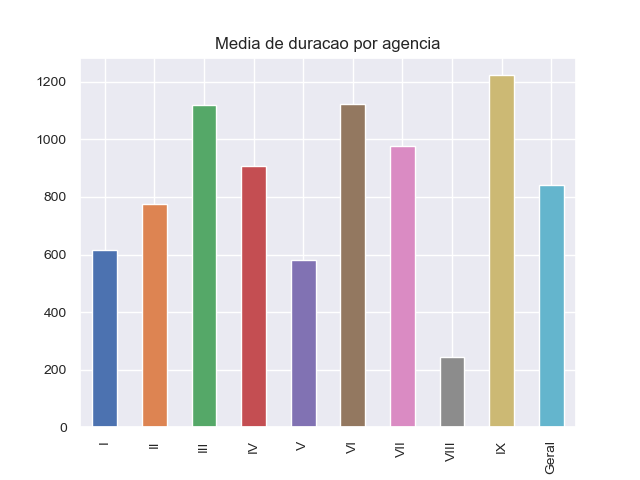
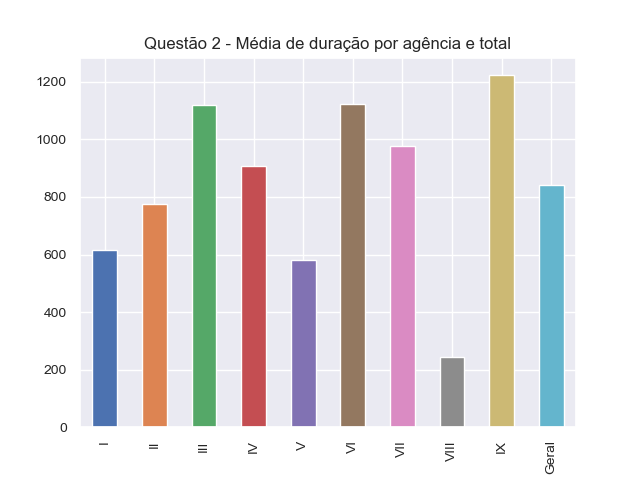
Atualizacoes 2

Changed region(s): [[0.2188, 0.0625, 0.8125, 0.125]]

diff --git a/regulacaoemnumeros/Questao1.py b/regulacaoemnumeros/Questao1.py
@@ -8,11 +8,11 @@ df = pd.read_excel('base_de_dados.xlsx') # Importar base de dados para dataframe
 df = df.dropna() # Descartar entradas com dados NaN
 df['AgenciaInt'] = df['Agencia'].apply(lambda x: roman.fromRoman(x)) # Transformar numerais romanos em inteiros
 df['Exercicio_Apurado'] = df['Exercicio_Apurado'].apply(lambda x: int(x))
-print(df.columns.values)
 
 sns.set()
 fig, axes = plt.subplots(nrows=3, ncols=3 , figsize=(10,10))
 plt.subplots_adjust(hspace=0.7)
+fig.suptitle('Questão 1 - Relação entre quantidade de processos e:', weight='bold')
 
 
 # ===============================================================================================================
@@ -23,7 +23,7 @@ s_1a = df['AgenciaInt'].value_counts().sort_index() # Criar Serie com total de p
 s_1a = pd.Series(s_1a.index.values, index=s_1a) # Inverter indice com valores
 s_1a = s_1a.apply(roman.toRoman) # Aplicar funcao conversora
 s_1a = pd.Series(s_1a.index.values, index=s_1a) # Reinverter para manter numerais como indice
-s_1a.plot(kind='bar', ax=axes[0,0], title='1a. Processos por agencia', fontsize=10)
+s_1a.plot(kind='bar', ax=axes[0,0], title='a. Agência', fontsize=10)
 
 
 # ===============================================================================================================
@@ -31,7 +31,7 @@ s_1a.plot(kind='bar', ax=axes[0,0], title='1a. Processos por agencia', fontsize=
 # ===============================================================================================================
 
 s_1b = df['Exercicio_Apurado'].value_counts().sort_index() # Criar Serie com total de processos
-s_1b.plot(kind='bar', ax=axes[0,1], title='1b. Processos por ano', fontsize=10)
+s_1b.plot(kind='bar', ax=axes[0,1], title='b. Ano', fontsize=10)
 
 
 # ===============================================================================================================
@@ -42,16 +42,16 @@ agencias = list(s_1a.index)
 anos = list(s_1b.index)
 d = {}
 for x in agencias:
-    d[x] = []
+    d[x] = [] # Uma chave para cada agencia contendo uma lista de totais de processo por ano
     for y in anos:
         df_1c = df[
             (df['Exercicio_Apurado'] == y) &
             (df['Agencia'] == x)]
-        d[x].append(df_1c.shape[0])
+        d[x].append(df_1c.shape[0]) #
 d = pd.DataFrame(d)
 d.index = anos
 large_left_ax = plt.subplot2grid((3,3), (1,0), colspan=2, rowspan=2)
-d.plot(ax=large_left_ax, title='1c. Processos por agencia por ano', fontsize=10)
+d.plot(ax=large_left_ax, title='c. Agência / Ano', fontsize=10)
 
 
 # ===============================================================================================================
@@ -59,7 +59,7 @@ d.plot(ax=large_left_ax, title='1c. Processos por agencia por ano', fontsize=10)
 # ===============================================================================================================
 
 s_1d = df['Relator'].value_counts().sort_index() # Criar Serie com total de processos
-s_1d.plot(kind='bar', ax=axes[0,2], title='1d. Processos por relator', fontsize=10)
+s_1d.plot(kind='bar', ax=axes[0,2], title='d. Relator', fontsize=10)
 
 
 # ===============================================================================================================
@@ -67,7 +67,10 @@ s_1d.plot(kind='bar', ax=axes[0,2], title='1d. Processos por relator', fontsize=
 # ===============================================================================================================
 
 s_1e = df['Quantidade_Relatores'].value_counts().sort_index() # Criar Serie com total de processos
-s_1e.plot(kind='bar', ax=axes[1,2], title='1e. Processos por qtd. de relatores', fontsize=10)
+s_1e = pd.Series(s_1e.index.values, index=s_1e) # Inverter indice com valores
+s_1e = s_1e.apply(int) # Aplicar funcao conversora
+s_1e = pd.Series(s_1e.index.values, index=s_1e) # Reinverter para manter numerais como indice
+s_1e.plot(kind='bar', ax=axes[1,2], title='e. Quantidade de relatores', fontsize=10)
 
 
 # ===============================================================================================================
@@ -75,9 +78,15 @@ s_1e.plot(kind='bar', ax=axes[1,2], title='1e. Processos por qtd. de relatores',
 # ===============================================================================================================
 
 s_1d = df['Unidade_Tecnica_Por_Agir'].value_counts().sort_index() # Criar Serie com total de processos
-s_1d.plot(kind='bar', ax=axes[2,2], title='1f. Processos por unidade tecnica', fontsize=10)
+s_1d.plot(kind='bar', ax=axes[2,2], title='f. Unidade técnica', fontsize=10)
 
+yint = []
+locs, labels = plt.yticks()
+for each in locs:
+    yint.append(int(each))
+plt.yticks(yint)
 
-
+xint = [x for x in range(1997, 2016, 2)]
+plt.xticks([value for idx, value in enumerate(anos) if idx%2 == 0])
 
 plt.show()

diff --git a/regulacaoemnumeros/Questao5.py b/regulacaoemnumeros/Questao5.py
@@ -11,6 +11,7 @@ df['AgenciaInt'] = df['Agencia'].apply(lambda x: roman.fromRoman(x)) # Transform
 sns.set()
 fig, axes = plt.subplots(nrows=3, ncols=2, figsize=(10,10))
 plt.subplots_adjust(hspace=0.7)
+fig.suptitle('Questão 5 - Relação entre quantidade de deliberações e:', weight='bold')
 
 
 # ===============================================================================================================
@@ -21,7 +22,7 @@ result_5a = df.groupby('AgenciaInt')['deliberacoes_quantidade'].sum()
 result_5a = pd.Series(result_5a.index.values, index=result_5a) # Inverter indice com valores
 result_5a = result_5a.apply(roman.toRoman) # Aplicar funcao conversora
 result_5a = pd.Series(result_5a.index.values, index=result_5a) # Reinverter para manter numerais como indice
-result_5a.plot.bar(ax=axes[0,0], title='5a. Deliberacoes por agencia', fontsize=10)
+result_5a.plot.bar(ax=axes[0,0], title='a. Agência', fontsize=10)
 
 
 # ===============================================================================================================
@@ -32,7 +33,7 @@ result_5b = df.groupby('Exercicio_Apurado')['deliberacoes_quantidade'].sum()
 result_5b = pd.Series(result_5b.index.values, index=result_5b) # Inverter indice com valores
 result_5b = result_5b.apply(int) # Aplicar funcao conversora
 result_5b = pd.Series(result_5b.index.values, index=result_5b) # Reinverter para manter numerais como indice
-title_5b = '5b. Deliberacoes por ano (Total: {})'.format(result_5b.sum())
+title_5b = 'b. Ano (Total: {})'.format(result_5b.sum())
 result_5b.plot.bar(ax=axes[0,1], title=title_5b, fontsize=10)
 
 
@@ -42,8 +43,8 @@ result_5b.plot.bar(ax=axes[0,1], title=title_5b, fontsize=10)
 
 result_5c = df.groupby('Relator')['deliberacoes_quantidade'].sum()
 result_5c.index.name = ''
-large_left_ax = plt.subplot2grid((3,2), (1,0), colspan=2, rowspan=1)
-result_5c.plot.bar(ax=large_left_ax, title='5c. Deliberacoes por relator', fontsize=10)
+large_left_ax = plt.subplot2grid((3,2), (1,0), colspan=1, rowspan=2)
+result_5c.plot.bar(ax=large_left_ax, title='c. Relator', fontsize=10)
 
 
 # ===============================================================================================================
@@ -52,7 +53,7 @@ result_5c.plot.bar(ax=large_left_ax, title='5c. Deliberacoes por relator', fonts
 
 result_5d = df.groupby('Unidade_Tecnica_Responsavel')['deliberacoes_quantidade'].sum()
 result_5d.index.name = ''
-result_5d.plot.bar(ax=axes[2,0], title='5d. Deliberacoes por UT responsavel', fontsize=10)
+result_5d.plot.bar(ax=axes[1,1], title='d. Unidade técnica', fontsize=10)
 
 
 # ===============================================================================================================
@@ -61,7 +62,7 @@ result_5d.plot.bar(ax=axes[2,0], title='5d. Deliberacoes por UT responsavel', fo
 
 result_5e = df.groupby('Unidade_Tecnica_Por_Agir')['deliberacoes_quantidade'].sum()
 result_5e.index.name = ''
-result_5e.plot.bar(ax=axes[2,1], title='5e. Deliberacoes por UT responsavel agir', fontsize=10)
+result_5e.plot.bar(ax=axes[2,1], title='e. Unidade técnica agir', fontsize=10)
 
 
 plt.show()

diff --git a/regulacaoemnumeros/Questao3.py b/regulacaoemnumeros/Questao3.py
@@ -11,6 +11,8 @@ df['AgenciaInt'] = df['Agencia'].apply(lambda x: roman.fromRoman(x)) # Transform
 sns.set()
 fig, axes = plt.subplots(nrows=2, ncols=3 , figsize=(10,10))
 plt.subplots_adjust(hspace=0.5)
+fig.suptitle('Questão 3 - Relação entre quantidade de responsáveis e:', weight='bold')
+
 
 
 # ===============================================================================================================
@@ -31,7 +33,7 @@ for x in agencias:
 
 result_3a = pd.DataFrame.from_dict(d_3a, orient='index')
 large_left_ax = plt.subplot2grid((2,3), (0,0), colspan=2, rowspan=1)
-result_3a.plot.bar(legend=False, ax=large_left_ax, title='3a. Responsaveis por agencia por processo', fontsize=10)
+result_3a.plot.bar(legend=False, ax=large_left_ax, title='a. Agência / Processo', fontsize=10)
 
 
 # ===============================================================================================================
@@ -43,7 +45,7 @@ result_3b.index.name = ''
 result_3b = pd.Series(result_3b.index.values, index=result_3b) # Inverter indice com valores
 result_3b = result_3b.apply(int) # Aplicar funcao conversora
 result_3b = pd.Series(result_3b.index.values, index=result_3b) # Reinverter para manter numerais como indice
-title = '3b. Responsaveis por ano (Total: {})'.format(result_3b.sum())
+title = 'b. Ano (Total: {})'.format(result_3b.sum())
 result_3b.plot.bar(legend=False, ax=axes[0,2], title=title, fontsize=10)
 
 
@@ -53,7 +55,7 @@ result_3b.plot.bar(legend=False, ax=axes[0,2], title=title, fontsize=10)
 
 result_3c = df.groupby('Relator')['quant_responsaveis'].sum()
 result_3c.index.name = ''
-result_3c.plot.bar(legend=False, ax=axes[1,0], title='3c. Responsaveis por relator', fontsize=10)
+result_3c.plot.bar(legend=False, ax=axes[1,0], title='c. Relator', fontsize=10)
 
 
 # ===============================================================================================================
@@ -62,7 +64,7 @@ result_3c.plot.bar(legend=False, ax=axes[1,0], title='3c. Responsaveis por relat
 
 result_3d = df.groupby('Unidade_Tecnica_Responsavel')['quant_responsaveis'].sum()
 result_3d.index.name = ''
-result_3d.plot.bar(legend=False, ax=axes[1,1], title='3d. Responsaveis por UT', fontsize=10)
+result_3d.plot.bar(legend=False, ax=axes[1,1], title='d. Unidade técnica', fontsize=10)
 
 
 # ===============================================================================================================
@@ -71,7 +73,7 @@ result_3d.plot.bar(legend=False, ax=axes[1,1], title='3d. Responsaveis por UT', 
 
 result_3e = df.groupby('Unidade_Tecnica_Por_Agir')['quant_responsaveis'].sum()
 result_3e.index.name = ''
-result_3e.plot.bar(legend=False, ax=axes[1,2], title='3e. Responsaveis por UT agir', fontsize=10)
+result_3e.plot.bar(legend=False, ax=axes[1,2], title='e. Unidade técnica agir', fontsize=10)
 
 
 plt.show()

diff --git a/regulacaoemnumeros/Questao4.py b/regulacaoemnumeros/Questao4.py
@@ -11,6 +11,8 @@ df['AgenciaInt'] = df['Agencia'].apply(lambda x: roman.fromRoman(x)) # Transform
 sns.set()
 fig, axes = plt.subplots(nrows=3, ncols=2, figsize=(10,10))
 plt.subplots_adjust(hspace=0.7)
+fig.suptitle('Questão 4 - Relação entre decisão normativa e:', weight='bold')
+
 
 
 # ===============================================================================================================
@@ -33,7 +35,7 @@ for x in agencias:
                 d_4a[main_index]['OK'] += 1
 
 result_3a = pd.DataFrame.from_dict(d_4a, orient='index')
-result_3a.plot.bar(ax=axes[0,0], title='4a. Decisoes normativas por agencia', fontsize=10)
+result_3a.plot.bar(ax=axes[0,0], title='a. Agência', fontsize=10)
 
 
 # ===============================================================================================================
@@ -55,7 +57,7 @@ for x in anos:
                 d_4b[x]['OK'] += 1
 
 result_4b = pd.DataFrame.from_dict(d_4b, orient='index')
-result_4b.plot.bar(ax=axes[0, 1], title='4b. Decisoes normativas por ano', fontsize=10)
+result_4b.plot.bar(ax=axes[0, 1], title='b. Ano', fontsize=10)
 
 
 # ===============================================================================================================
@@ -78,7 +80,7 @@ for x in relatores:
 
 result_4c = pd.DataFrame.from_dict(d_4c, orient='index')
 large_left_ax = plt.subplot2grid((3,2), (1,0), colspan=2, rowspan=1)
-result_4c.plot.bar(ax=large_left_ax, title='4c. Decisoes normativas por relator', fontsize=10)
+result_4c.plot.bar(ax=large_left_ax, title='c. Relator', fontsize=10)
 
 
 
@@ -101,7 +103,7 @@ for x in unidades:
                 d_4d[x]['OK'] += 1
 
 result_4d = pd.DataFrame.from_dict(d_4d, orient='index')
-result_4d.plot.bar(ax=axes[2,0], title='4d. Decisoes normativas por unidade tecnica', fontsize=10)
+result_4d.plot.bar(ax=axes[2,0], title='d. Unidade técnica', fontsize=10)
 
 
 # ===============================================================================================================
@@ -123,7 +125,7 @@ for x in agir:
                 d_4e[x]['OK'] += 1
 
 result_4e = pd.DataFrame.from_dict(d_4e, orient='index')
-result_4e.plot.bar(ax=axes[2,1], title='4e. Decisoes normativas por unidade tecnica agir', fontsize=10)
+result_4e.plot.bar(ax=axes[2,1], title='e. Unidade técnica agir', fontsize=10)
 
 
 plt.show()

diff --git a/regulacaoemnumeros/Questao2.py b/regulacaoemnumeros/Questao2.py
@@ -20,7 +20,6 @@ s = s.apply(roman.toRoman) # Aplicar funcao conversora
 s = pd.Series(s.index.values, index=s) # Reinverter para manter numerais como indice
 s = s.append(pd.Series([s.mean()], index=['Geral']))
 
-print(s)
 sns.set()
-s.plot(kind='bar', title='Media de duracao por agencia', fontsize=10)
+s.plot(kind='bar', title='Questão 2 - Média de duração por agência e total', fontsize=10)
 plt.show()
